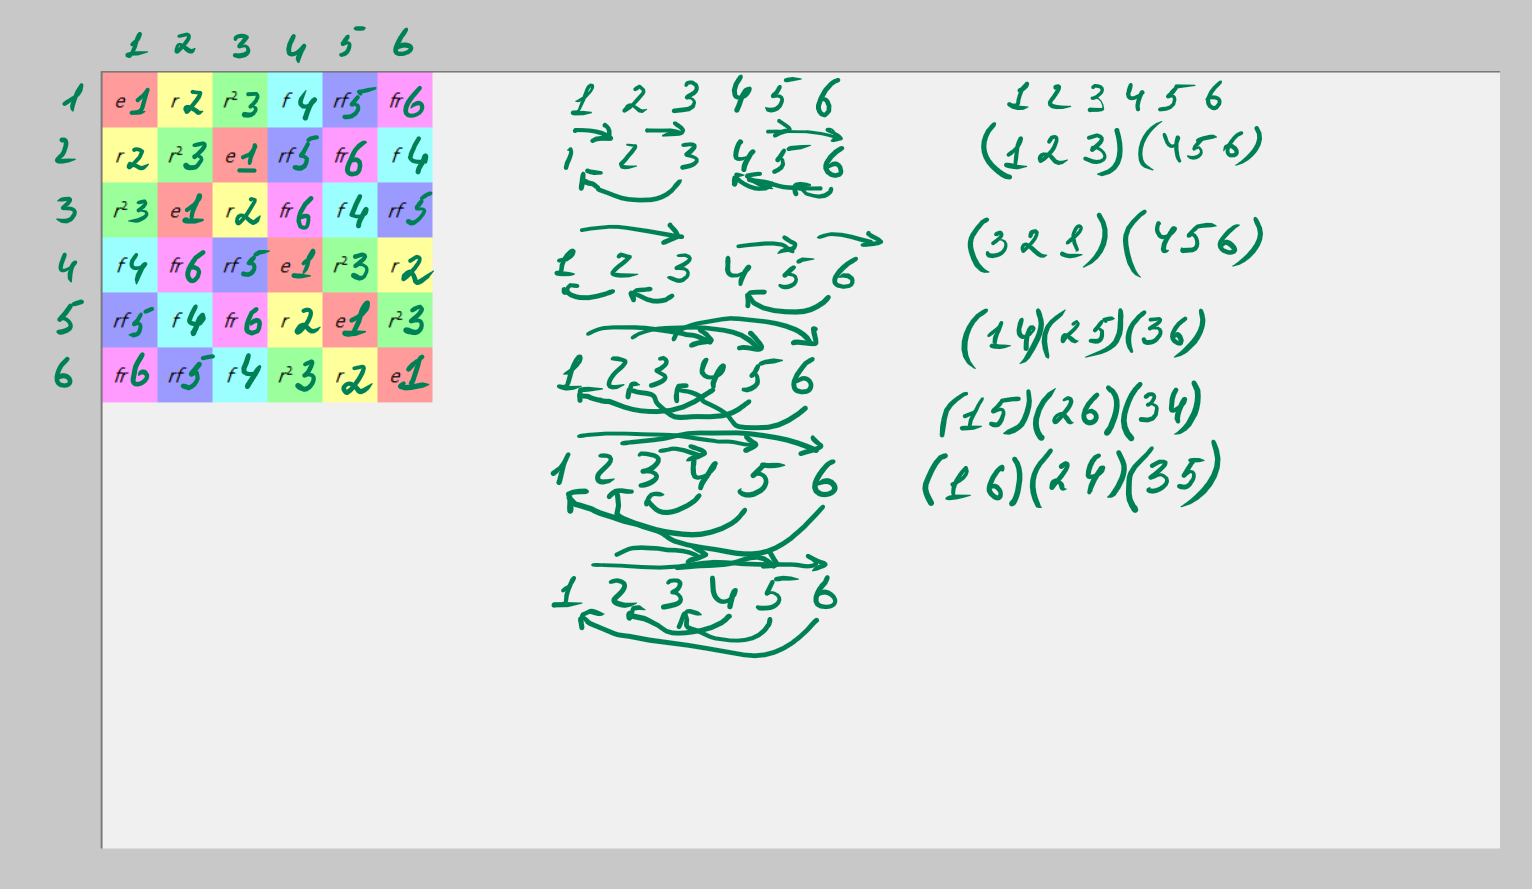
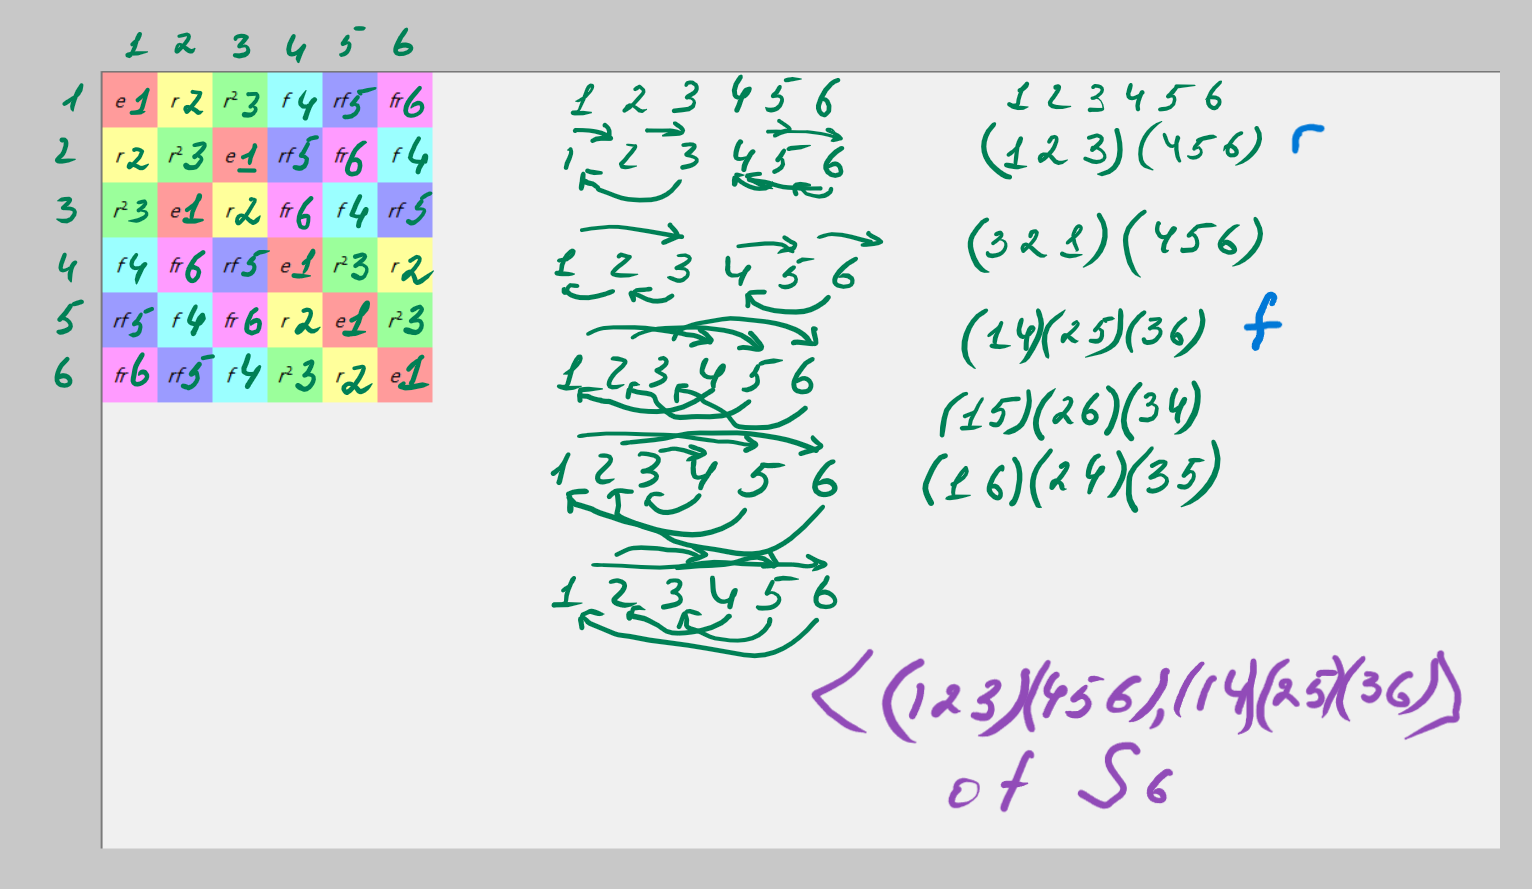
5.19

Changed region(s): [[0.5215, 0.7289, 0.951, 0.9111], [0.8283, 0.1215, 0.859, 0.1822], [0.7977, 0.3341, 0.8283, 0.3948]]

diff --git a/5.5 Exercises.md b/5.5 Exercises.md
@@ -187,3 +187,12 @@ notation from this chapter.
 S3 - first non-abelian group. 
 
 ![Exercise 5.18](<Exercise 5.18.png>)
+
+**Exercise 5.19.** For each symmetric group whose multiplication table you created in
+Exercise 5.18, compute the elements of the corresponding alternating group, as in Figure
+5.25. For each alternating group you compute, create
+(a) a multiplication table,
+(b) a Cayley diagram, and
+(c) a cycle graph.
+
+![Exercise 5.19](<Exercise 5.19.png>)
